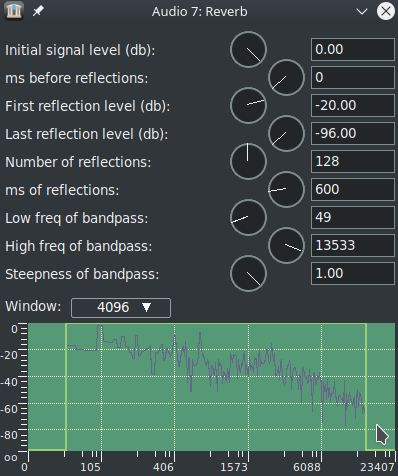
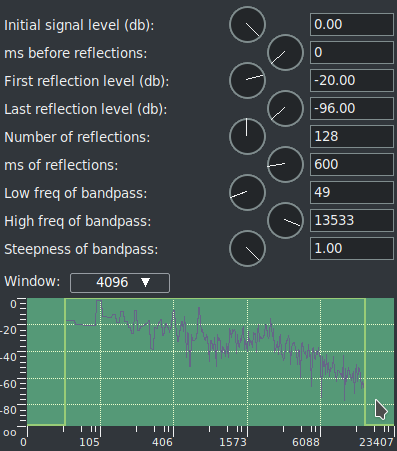
Andrea new images + Olaf informational page + added Mixer window options

Changed region(s): [[0.0, 0.0, 0.9975, 0.9933], [0.937, 0.7761, 0.9673, 0.8071], [0.937, 0.714, 0.9673, 0.745]]

diff --git a/parts/Plugins.tex b/parts/Plugins.tex
@@ -29,12 +29,12 @@ Note that when you change the plugin icons, your session will automatically save
     \centering
     \begin{tikzpicture}[scale=1, transform shape]
     \node (img1) [yshift=0cm, xshift=0cm, rotate=0] {\includegraphics[width=0.5\linewidth]{plugin-icons.png}};
-    \node [yshift=-8mm, xshift=-1cm,anchor=east] at (img1.north west) (Preferences) {Preferences Window};
-    \node [yshift=-17mm, xshift=-1cm,anchor=east] at (img1.north west) (Tab) {Tab section};
-    \node [yshift=-41mm, xshift=-1cm,anchor=east] at (img1.north west) (Icon) {Plugin icon choices};
-    \draw [->, line width=1mm] (Preferences) edge  ([yshift=-8mm] img1.north west);
-    \draw [->, line width=1mm] (Tab) edge  ([yshift=-17mm] img1.north west);
-    \draw [->, line width=1mm] (Icon) edge    ([yshift=-41mm] img1.north west);
+    \node [yshift=-6mm, xshift=-1cm,anchor=east] at (img1.north west) (Preferences) {Preferences Window};
+    \node [yshift=-14mm, xshift=-1cm,anchor=east] at (img1.north west) (Tab) {Tab section};
+    \node [yshift=-35mm, xshift=-1cm,anchor=east] at (img1.north west) (Icon) {Plugin icon choices};
+    \draw [->, line width=1mm] (Preferences) edge  ([yshift=-6mm] img1.north west);
+    \draw [->, line width=1mm] (Tab) edge  ([yshift=-14mm] img1.north west);
+    \draw [->, line width=1mm] (Icon) edge    ([yshift=-35mm] img1.north west);
     \end{tikzpicture}
     \caption{Screencast showing the screen to change your plugin icons set}
     \label{fig:plugin-icons}
@@ -128,19 +128,18 @@ In order to prevent the shared track from mixing the same data as the original t
 \end{wrapfigure}
 Note that using this is directly changing a keyframe object so you will only want to modify parameters you are familiar with. Most of the data is obvious and safe to change.
 
-A Presets button on the plugin bar to the left of the Controls and On/Off button allows for quick access to this feature. The symbol resembles a gear (figure~\ref{fig:preset02}).
-    %\todo{I can't to remedy}%
+A Presets button on the plugin bar to the left of the Controls and On/Off button allows for quick access to this feature. The symbol resembles a slider (figure~\ref{fig:preset02}).
 
 \begin{figure}[htpb]
     \centering
     \begin{tikzpicture}[scale=1, transform shape]
     \node (img1) [yshift=0cm, xshift=0cm, rotate=0] {\includegraphics[width=0.6\linewidth]{preset02.png}};
-    \node [yshift=-30mm, xshift=-1cm,anchor=east] at (img1.north west) (Green) {A user preset Green};
-    \node [yshift=-101mm, xshift=-1cm,anchor=south east,text width=10em, inner ysep=-3mm] at (img1.north west) (Textbox) {Textbox to type in the title for the chosen preset or name for a new preset.};
-    \node [yshift=-110mm, xshift=-1cm,anchor=north east,text width=10em,inner ysep=-3mm] at (img1.north west) (Save) {Use the Delete, Save or Apply button for operation.};
-    \draw [->, line width=1mm] (Green) edge  ([yshift=-30mm] img1.north west);
-    \draw [->, line width=1mm] (Textbox.south east) --  ([yshift=-101mm] img1.north west);
-    \draw [->, line width=1mm] (Save.north east) --    ([yshift=-110mm] img1.north west);
+    \node [yshift=-20mm, xshift=-1cm,anchor=east] at (img1.north west) (Green) {A user preset Green};
+    \node [yshift=-68mm, xshift=-1cm,anchor=south east,text width=10em, inner ysep=-3mm] at (img1.north west) (Textbox) {Textbox to type in the title for the chosen preset or name for a new preset.};
+    \node [yshift=-80mm, xshift=-1cm,anchor=north east,text width=10em,inner ysep=-3mm] at (img1.north west) (Save) {Use the Delete, Save or Apply button for operation.};
+    \draw [->, line width=1mm] (Green) edge  ([yshift=-20mm] img1.north west);
+    \draw [->, line width=1mm] (Textbox.south east) --  ([yshift=-68mm] img1.north west);
+    \draw [->, line width=1mm] (Save.north east) --    ([yshift=-80mm] img1.north west);
     \end{tikzpicture}
     \caption{Screencast shows 4 Factory presets as preceded by an *.}
     \label{fig:preset02}
@@ -154,11 +153,11 @@ These next few sections explain some details about the plugins that are not dire
 \subsection{How to see short Description of a Plugin}%
 \label{sub:short_description_plugin}
 
-To get a short one or a few lines description of a plugin, right click on that plugin in the Resources window and when the popup menu appears, select \textit{Info}. Some of the plugins may not have any description included. An example screenshot is next (figure~\ref{fig:info-effect}).
+To get a short one or a few lines description of a plugin, mouse over that plugin in the Resources window and a popup appears. You can disable the popup by right-clicking and choosing \textit{Info Off} (shortcut "i"). And again enable it with \textit{Info On}. Some of the plugins may not have any description included. An example screenshot is next (figure~\ref{fig:info-effect}).
 
 \begin{figure}[htpb]
     \centering
-    \includegraphics[width=0.7\linewidth]{info-effect.png}
+    \includegraphics[width=0.8\linewidth]{info-effect.png}
     \caption{Effect Info for Color 3 Way}
     \label{fig:info-effect}
 \end{figure}
@@ -322,7 +321,7 @@ Audio Effects
 \begin{figure}[htpb]
     \centering
     \includegraphics[width=0.8\linewidth]{expander.png}
-    \caption{$\bigtriangledown$, $\rhd$ =expander; "-" = options}
+    \caption{$\triangledown$,$\triangleright$ = expander; "-" = options}
     \label{fig:expander}
 \end{figure}
 
@@ -482,7 +481,7 @@ Graphic equalizer sets the output levels for specified frequency bands. This eff
 
 \begin{figure}[htpb]
     \centering
-    \includegraphics[width=0.7\linewidth]{equalizer.png}
+    \includegraphics[width=0.8\linewidth]{equalizer.png}
     \caption{Graphic Equalizer audio plugin}
     \label{fig:equalizer}
 \end{figure}
@@ -495,7 +494,7 @@ Parametric equalizer shows and outputs levels for \textit{frequency}, \textit{qu
 \begin{figure}[htpb]
 	\centering
 	\includegraphics[width=0.4\linewidth]{eq_param.png}
-	\caption{Graphic Equalizer audio plugin}
+	\caption{EQ Parametric audio plugin}
 	\label{fig:eq_param}
 \end{figure}
 
@@ -553,7 +552,7 @@ The delay introduced consists of two distinct components: the \textit{constant d
 
 \begin{figure}[htpb]
 	\centering
-	\includegraphics[width=0.5\linewidth]{flanger.png}
+	\includegraphics[width=0.6\linewidth]{flanger.png}
 	\caption{GUI of configuration for Flanger plugin}
 	\label{fig:flanger}
 \end{figure}
@@ -636,7 +635,7 @@ The configuration window (figure~\ref{fig:reverb}) shows a graph of the full ban
 
 \begin{figure}[htpb]
 	\centering
-	\includegraphics[width=0.5\linewidth]{reverb.png}
+	\includegraphics[width=0.6\linewidth]{reverb.png}
 	\caption{GUI of configuration for Reverb plugin}
 	\label{fig:reverb}
 \end{figure}
@@ -759,7 +758,7 @@ Below is a screencast showing the auto start gui flag and the \texttt{LV2\_PATH}
 
 \begin{figure}[htpb]
     \centering
-    \includegraphics[width=0.9\linewidth]{reload.png}
+    \includegraphics[width=1.0\linewidth]{reload.png}
     \caption{Reload plugin index in yellow and Auto start lv2 gui unchecked}
     \label{fig:reload}
 \end{figure}

diff --git a/common/title.tex b/common/title.tex
@@ -1,5 +1,7 @@
-% Cover sheet with full logo,
+% ================================================================
+% Page 1 -- Cover sheet with full logo,
 % realized with eso-pic as background image.
+%
 \thispagestyle{empty}
 \newcommand\CinBackgroundLogo{%
    \put(0,0){%
@@ -26,7 +28,10 @@
 % Remove the logo
 \ClearShipoutPicture%
 
-% Title page definition
+
+% ================================================================
+% Page 2 -- Title page definition
+%
 \thispagestyle{empty}
 
 %\providecommand{\HUGE}{\Huge}% if not using memoir
@@ -70,7 +75,70 @@
 \href{https://www.cinelerra-gg.org}{https://www.cinelerra-gg.org}\par
 \endgroup}
 \titleLL % use cutom title
+\clearpage
 
+% ================================================================
+% Page 3 -- Imprint
+%
+\begingroup % imprint
+\setlength{\parskip}{0.4\baselineskip}
+\subsection*{\sffamily\CGG{} -- The Comprehensive User Manual}
+\label{sec:Impressum}
+%
+% In various countries, various details are mandatory in every
+% book. Translators should pay attention to this if necessary.
+% German entries are mandatory: Real name and address of the
+% author/rights holder.
+% The following is an example that needs to be adapted to the
+% respective conditions.
+%
+Maintained and published by Phyllis Smith\\[+1.2em]
+Copyright~\copyright{} 2020 The \CGG{} Community\par
+Please report errors in the book to our \href{https://www.cinelerra-gg.org/bugtracker/}{bug tracker} or the \href{https://www.cinelerra-gg.org/forum/}{user forum}\par
+% Contributing authors: \textsc{Phyllis Smith, Andrea Paz, Andrey}\par
+Graphic cover page: \textsc{Sam}, License
+\textsc{\href{https://creativecommons.org/licenses/by/3.0/}{CC\,BY\,3.0}}\par
+Cover design: The \CGG{} Community\par
+Illustrations: The \CGG{} Community%, for individual proofs, if different, see list of figures% \par
+% Translation: Translator
+\bigskip%
+
+\footnotesize
+\subsubsection*{\sffamily{}Legal information}
+\label{sec:Legal-information}
+At this point, the express reference to the licence under which this
+manual is published could be entered.
+
+\subsubsection*{\sffamily{}Disclaimer}
+\label{sec:Disclaimer}
+%
+% Caution, in some countries a disclaimer often does
+% more harm than good.
+%
+In this capacity, the author of this manual is not responsible for
+the function or errors of the software described in this
+manual. Great care has been taken in the creation of texts and
+illustrations. Nevertheless, errors cannot be completely
+excluded.\par
+However, the author cannot assume any legal responsibility or
+liability for incorrect information and its consequences. The author
+is grateful for suggestions for improvement and information on
+errors.
+
+\subsubsection*{\sffamily{}Trademarks}
+\label{sec:Warenzeichen}
+In this manual, trade names are used without the guarantee of free
+usability and without special marking. However, it can be assumed
+that many of the trade names are registered trade names or are to be
+regarded as such at the same time.
+
+\subsubsection*{\sffamily{}Links}
+\label{sec:Link-liability}
+Many links in this PDF are active. If the pointer points to a link,
+your PDF reader should additionally display the actual destination
+address. This way you can check if the target matches the link
+description before clicking.
+\endgroup % imprint
 
 %%% Local Variables:
 %%% mode: latex

diff --git a/parts/Multi5s.tex b/parts/Multi5s.tex
@@ -115,8 +115,41 @@ The best way to use proxy with your multiple cameras is to follow the steps belo
     \item Choose the size and other options you want and click the checkmark OK. If you choose the option \textit{Beep when done} you will hear a short beep if all media is already proxied or a longer beep when all proxies have been created.
     \item When your editing is complete, use \textit{Settings} pulldown and proxy to \textit{original size}.
 \end{enumerate}
-
 Instead of Open Mixers, you can Insert Mixers with new tracks at the timeline insertion point.
+
+\begin{figure}[htpb]
+    \centering
+    \includegraphics[width=1.0\linewidth]{mixer-playable.png}
+    \caption{A Mixer window showing available options with the white X designating no playing}
+    \label{fig:mixer-playable}
+\end{figure}
+
+\subsubsection*{Options available in the \textit{Mixer Windows}}%
+\label{ssub:options_available_with_mixers}
+
+There are several options you will see in each Mixer window that help with using them. These
+are shown in figure~\ref{fig:mixer-playable}. To use these, RMB in the desired mixer window,
+and choose one of the options as described here.
+
+\begin{enumerate}
+    \item Fullscreen / Windowed - will bring up a fullscreen display of that window or revert to the original size.
+    \item Resize Window - allows for resizing the window to a choice of different sizes.
+    \item Tile Mixers - makes it easy to get all of the mixers nicely tiled to a standard size.
+This is also available in the Window pulldown.
+    \item Playable - enabled by default so that you will see a checkmark next to it in the 
+popup.  The benefit of making a mixer window not playable is to save cpu time. When a specific
+mixer window is unchecked, so not Playable, a white cross appears in the upper left hand corner
+of the mixer.  To switch back to playing again, RMB and choose Playable and this will turn
+playing back on. The program automatically updates the mixer image when the timeline cursor
+stops or when it is moved to a different spot even when play is disabled. You can see the
+white cross designating not playable in figure~\ref{fig:mixer-playable}. Statistics that show
+the savings are as follows on a 16 cpu laptop:
+\begin{verbatim}
+  5 Mixers all playing -- cpu usage = 1275
+  1 only playing       -- cpu usage =  405
+  2 only playing       -- cpu usage =  800
+\end{verbatim}
+\end{enumerate}
 
 \subsection{Mixer Align by Audio}%
 \label{sub:mixer_align_audio}

diff --git a/parts/Keyframes.tex b/parts/Keyframes.tex
@@ -128,8 +128,7 @@ An easy way to get an exact position is to set the \textit{Automation range} in 
 window to the low and high ends of the desired range. For example, 1.000 to 50.000, which makes it
 so you can drag the speed/fade handle all the way to the left for 1.000 or all the way to the right for 50.
 
-Figure~\ref{fig:always} shows orange keyframes and lines for the ganged speed automation on all video/audio tracks.
-Note the status bar numbers in the lower left-hand corner displaying 2.17 seconds as the location and 0.38 as the playback rate. The figure also shows the orange speed slider bar triangle with the current value displayed via the tooltip.
+Figure~\ref{fig:always} shows orange keyframes and lines for the ganged speed automation on all video/audio tracks. The figure shows the orange speed slider bar triangle with the current value displayed via the tooltip. Note the status bar numbers in the lower lefthand corner displaying 01:08 seconds as the location and 2.05 as the playback rate.
 
 \begin{figure}[htpb]
     \centering

diff --git a/parts/Installation.tex b/parts/Installation.tex
@@ -871,7 +871,7 @@ themselves.  Of course, it includes \CGG{}!
 Click here for the
 \href{http://www.bandshed.net/avlinux/}{homepage of AV Linux}.
 
-\subsection{Bodhi Linux}
+\subsection{Bodhi Linux Media}
 \label{sec:Bodhi_Linux}
 
 \textbf{Bodhi Linux Media} is a free and open source distribution that
